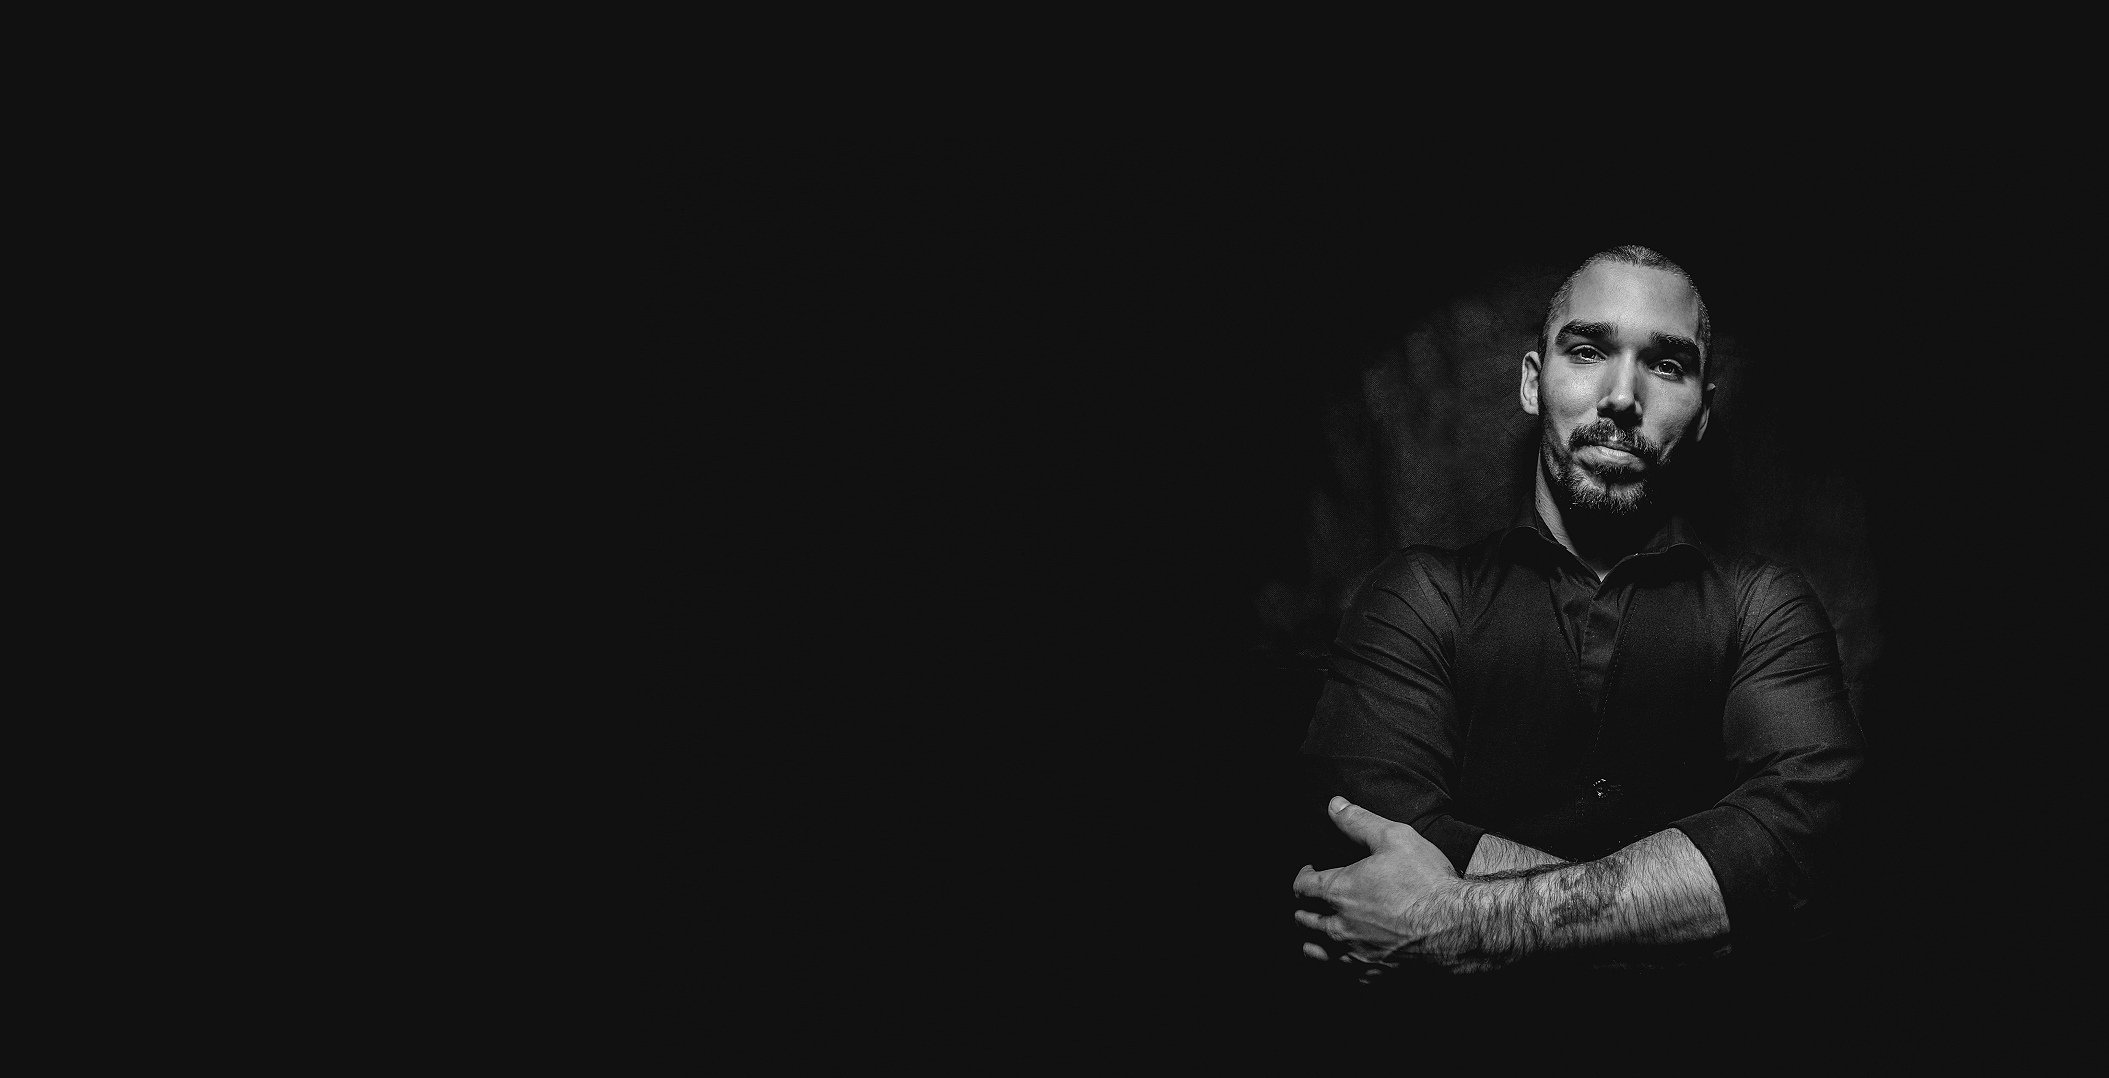
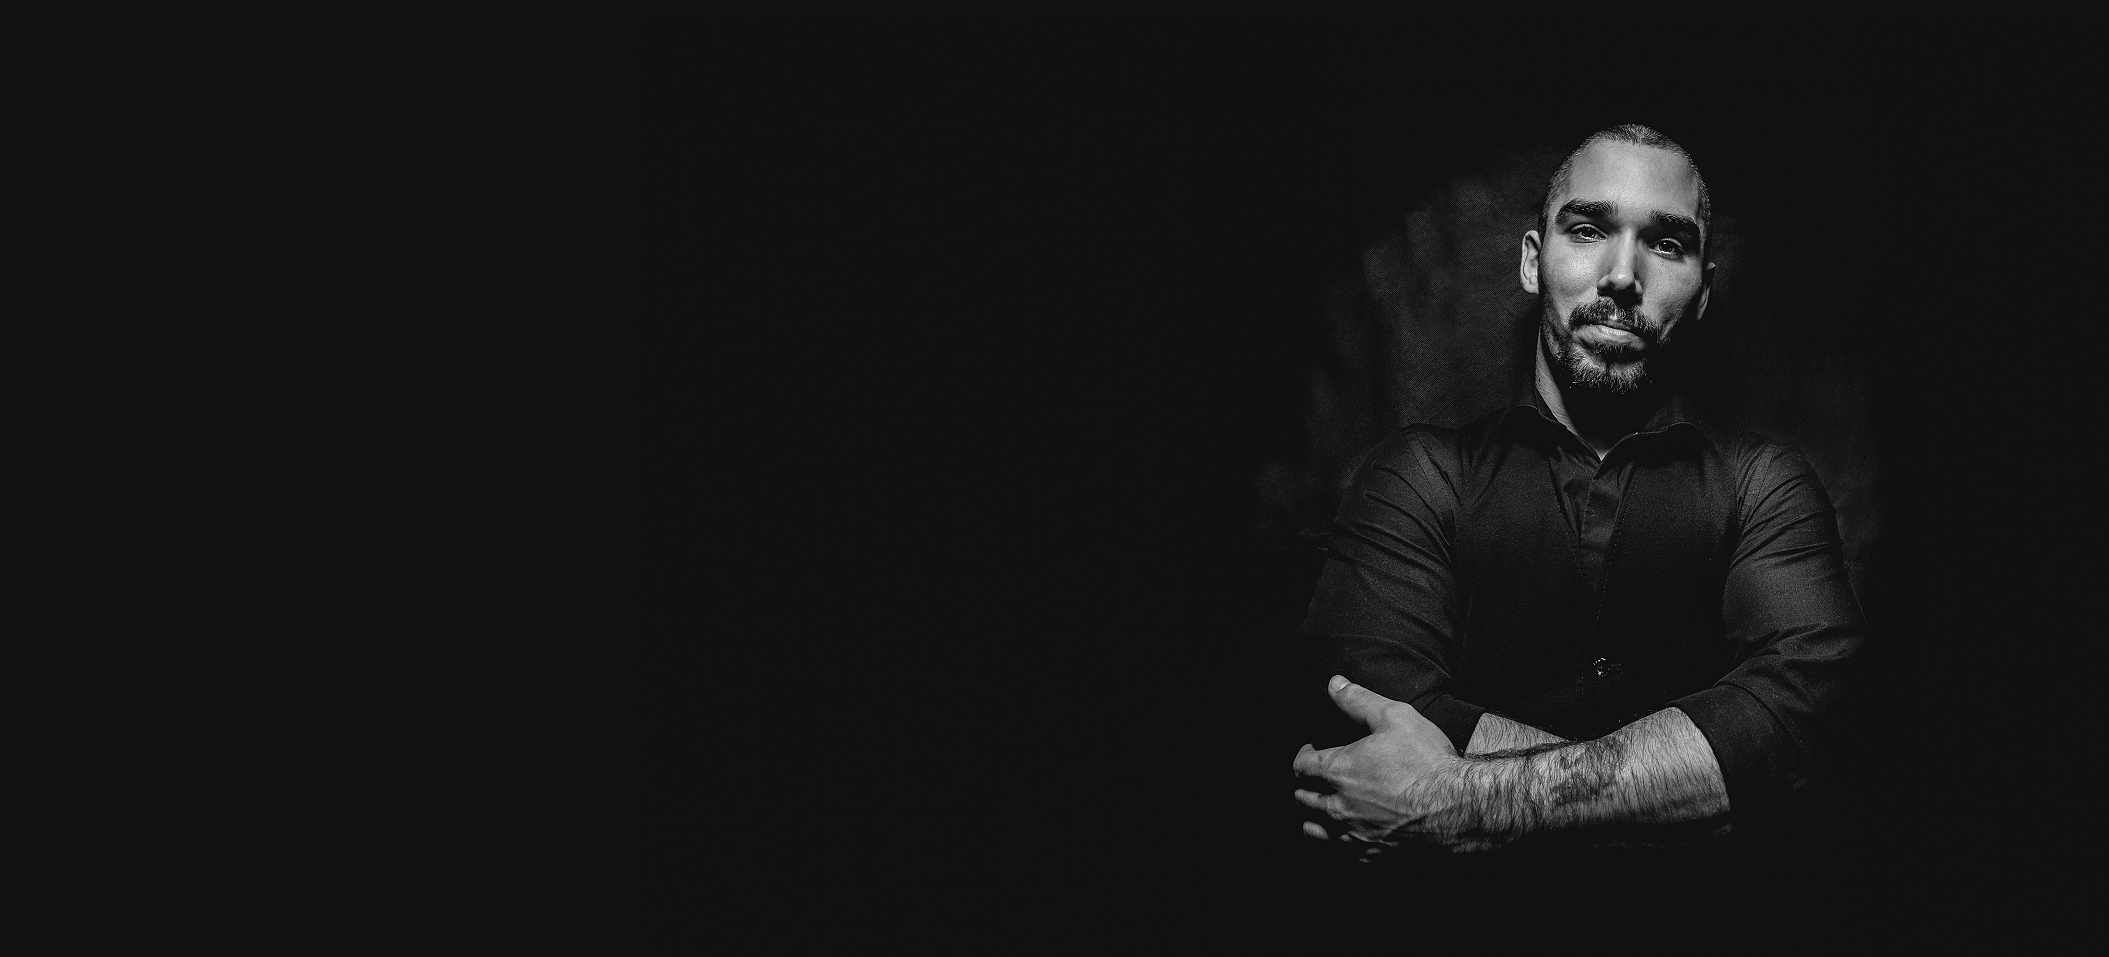
Header hero update

Changed region(s): [[0.6164, 0.1212, 0.8938, 0.9091]]

diff --git a/css/index/index.header-hero.partial.css b/css/index/index.header-hero.partial.css
@@ -1,22 +1,26 @@
-/* --- Hero Section Styles --- */
+/* --- Hero Section --- */
 .hero {
-  background: url("https://res2.weblium.site/res/5ec6997a1d33f4002146b5a5/5ecb8d981d33f400215542a8") 44.69% 53.19% / cover no-repeat, var(--ui-dark-shade-color);
-  padding: 100px 0;
-  display: flex;
-  align-items: center;
-  justify-content: center;
-  min-height: 100vh;
-  position: relative;
+  background:
+    url("/img/ryan_background.png") 44.69% 65% / cover no-repeat,
+    var(--ui-dark-shade-color);
+  background-size: 109%;
 
+  @media (max-width: 768px) {
+    background-image: none;
+    background-color: var(--ui-dark-shade-color);
+  }
 
+  /* Layout and other properties moved to sub-elements */
   .hero__container {
+    display: flex;
+    flex-direction: row;
+    align-items: center;
+    justify-content: flex-start;
+    min-height: 100vh;
+    padding: 100px var(--spacing-sm);
+    width: 100%;
     position: relative;
     z-index: 2;
-    display: flex;
-    flex-direction: row; /* Row layout for grid emulation */
-    align-items: center;
-    justify-content: flex-start; /* Push content to the left */
-    width: 100%;
   }
 
   .hero__content {
@@ -25,7 +29,7 @@
     padding: 0 var(--spacing-md);
     text-align: center; /* Center text within its column */
 
-    @media (max-width: 992px) {
+    @media (max-width: 768px) {
       max-width: 100%; /* Full width on smaller tablets and mobiles */
     }
   }
@@ -102,14 +106,22 @@
     }
   }
 
-  /* Hero bottom icon */
+  /* Hero bottom icon - Positioned at the very bottom of the section */
   .hero__footer {
-    margin-top: 80px;
+    position: absolute;
+    bottom: 1px;
+    left: 30%;
+    transform: translateX(-50%);
+    z-index: 3;
+
+    @media (max-width: 768px) {
+      left: 50%;
+    }
 
     .hero__icon {
-      width: 10px;
+      width: 12px;
       height: auto;
-      opacity: 0.6;
+      opacity: 0.8;
       animation: bounce 2s infinite;
     }
   }

diff --git a/partials/index/index.header-hero.partial.html b/partials/index/index.header-hero.partial.html
@@ -23,15 +23,15 @@
       <div class="hero__actions">
         <a href="#contact" class="hero__btn">CONTACT RYAN</a>
       </div>
+    </div>
 
-      <!-- Footer Icon -->
-      <div class="hero__footer">
-        <img
-          src="https://res2.weblium.site/res/5ec6997a1d33f4002146b5a5/5ec6a8328a766b00218d2b9b"
-          alt="Scroll Icon"
-          class="hero__icon"
-        />
-      </div>
+    <!-- Footer Icon -->
+    <div class="hero__footer">
+      <img
+        src="https://res2.weblium.site/res/5ec6997a1d33f4002146b5a5/5ec6a8328a766b00218d2b9b"
+        alt="Scroll Icon"
+        class="hero__icon"
+      />
     </div>
   </div>
 </section>
